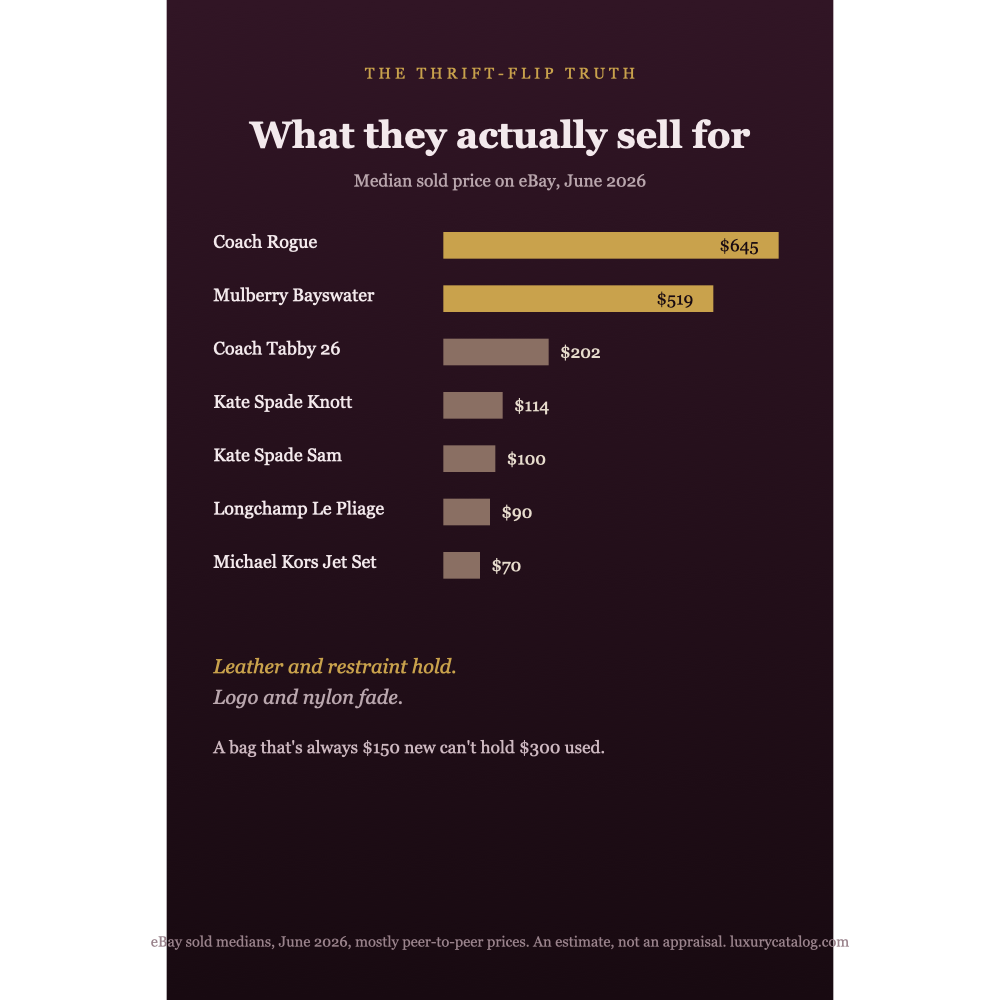
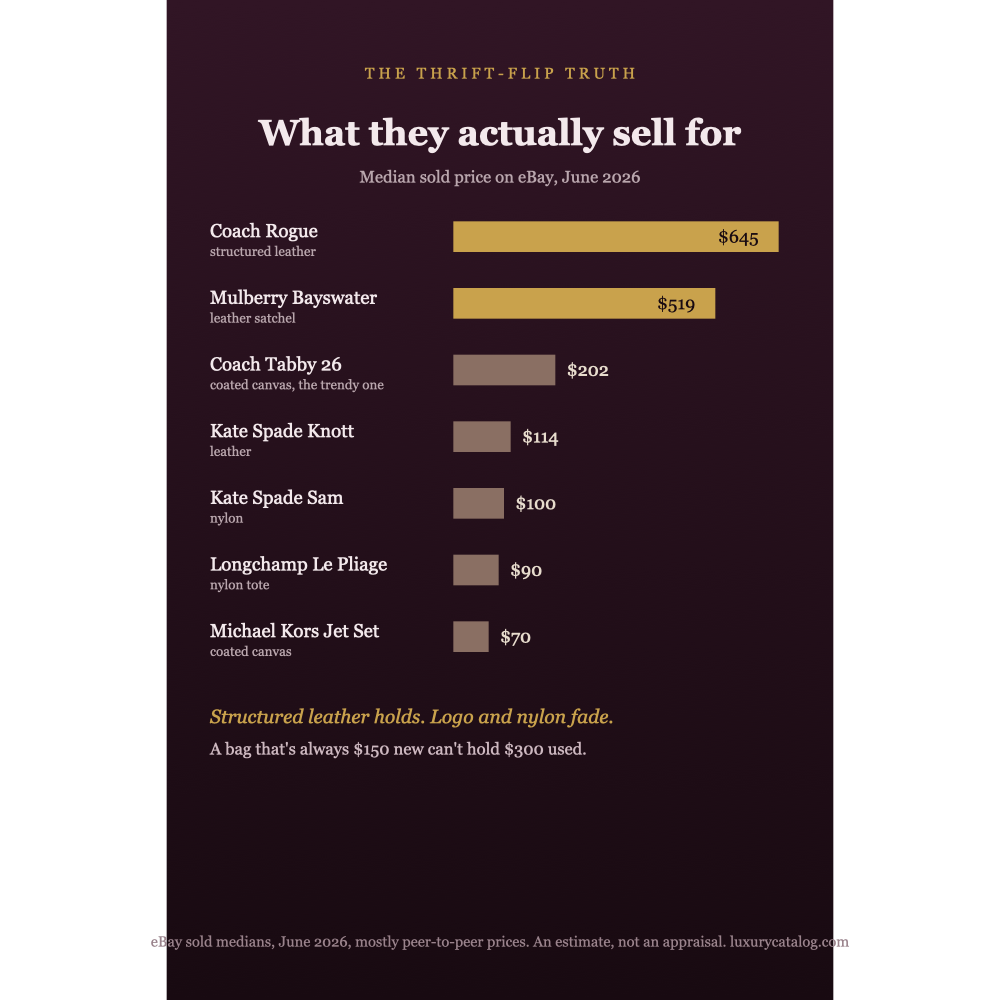
content(social): revise #4 (descriptor-anchored names, show-the-bag) + chart descriptors + lock recognition rule
Rule (voice-and-tone §7b): never assume model-name recognition; pair every
name with the bag (on screen / silhouette / 3-word descriptor); lead with the
viral names. Thrift chart now labels each bag's material; #4 script anchors
each name to a look and leads with the Tabby.

diff --git a/assets/social/2026-06-launch/accessible-bags-hold-value-post.md b/assets/social/2026-06-launch/accessible-bags-hold-value-post.md
@@ -1,37 +1,39 @@
 # Post — Which accessible bags actually hold value (thrift/flip)
 
-Status: DRAFTED 2026-06-30. Pillar: thrift wedge / honest money. Persona: Jordan.
+Status: DRAFTED 2026-06-30 (hook+POV + descriptor-anchored names). Pillar: thrift wedge / honest money. Persona: Jordan.
 Destination: https://www.luxurycatalog.com/articles/which-accessible-bags-hold-value
-Facts from the article (eBay sold medians, June 2026): Coach Rogue $645, Mulberry Bayswater $519, Coach Tabby 26 $202, Kate Spade Knott $114, Kate Spade Sam $100, Longchamp Le Pliage $90, Michael Kors Jet Set $69.99. Pattern: structured leather + restraint holds; logo/nylon + volume fades. Mostly peer-to-peer prices, not authenticated comps. Estimate, not an appraisal.
-Visual: horizontal sold-medians bar chart, 7 bags (jewel house style). [building]
+Visual: assets/social/2026-06-launch/accessible-bags-sold.svg (now with material descriptors per bag)
+Facts (eBay sold medians, June 2026): Coach Rogue $645, Mulberry Bayswater $519, Coach Tabby 26 $202, Kate Spade Knott $114, Kate Spade Sam $100, Longchamp Le Pliage $90, Michael Kors Jet Set $69.99. Mostly peer-to-peer, estimate not appraisal.
+NOTE (recognition rule): on video SHOW each bag as it's named; names are anchored to a look in copy. Lead with the Tabby (the one people know).
 
-## TikTok / Reel
-> Found a designer bag at the thrift store? Here's which ones are actually worth flipping. Real sold prices, not the hopeful listings.
->
-> At the top, structured leather. A Coach Rogue sells around $645. A Mulberry Bayswater around $519. At the bottom, the logo and nylon everyday bags: a Michael Kors Jet Set near $70, a Longchamp Le Pliage near $90, Kate Spade around $100.
->
-> The Coach Tabby, the current logo darling, sits in the middle around $200, well under the Rogue from the same brand.
->
-> The pattern: leather and restraint hold, logo and nylon don't. A bag that's always available new for $150 can't hold $300 used.
->
-> At the rack: grab structured leather on sight, the Mulberry, the Rogue. The nylon and logo totes, only if they're cheap or you'll carry them. And down here, condition is everything: a stain is the difference between a flip and a wash.
+## Hooks (rotate)
+- A: "Found a designer bag at the thrift store? Here's whether it's a $600 flip or a $70 dust collector."
+- B: "Most 'designer' thrift finds are basically worthless. Here are the few that actually flip."
 
-**Outro:** Full sold-price list, every bag, at the link. Follow for more where handbags meet data, I put it all on LuxuryCatalog.com so you can spend smart.
+## TikTok / Reel (open with A or B; SHOW each bag as you say it)
+> I pulled the real eBay sold prices for the bags people thrift most, the actual sold numbers, not the hopeful listings. The gap is brutal.
+>
+> Top of the list, structured leather. That heavy Coach satchel with the turn-lock, the Rogue, sells around $645. The classic structured Mulberry, the Bayswater, around $519. Grab those on sight.
+>
+> Bottom of the list, the everyday logo and nylon bags. The Michael Kors logo tote, about $70. The Longchamp nylon shopper, the Le Pliage, around $90. Kate Spade, around $100. And the trendy Coach everyone has right now, the Tabby, sits in the middle around $200, under the Rogue from the same brand.
+>
+> The rule: structured leather holds, logo and nylon fade. A bag that's always on sale new for $150 can't hold $300 used. And down here condition is everything, a stain is the difference between a flip and a wash.
+
+**Outro:** Full sold-price list, every bag, at the link. Follow for real bag data with the gatekeeping cut out, LuxuryCatalog.com.
 
 ## Instagram caption
 > The thrift-flip truth, in real sold prices.
 >
-> We pulled eBay's actual sold medians, not the hopeful asks. Structured leather holds: a Coach Rogue sells around $645, a Mulberry Bayswater around $519. The everyday logo and nylon bags sell for a fraction: a Michael Kors Jet Set near $70, a Longchamp Le Pliage near $90, Kate Spade around $100. The Coach Tabby, the logo darling, lands around $200, under the Rogue from the same house.
+> I pulled eBay's actual sold medians, not the hopeful asks. Structured leather holds: the heavy turn-lock Coach satchel, the Rogue, sells around $645; the classic Mulberry satchel, the Bayswater, around $519. The everyday logo and nylon bags sell for a fraction: a Michael Kors logo tote near $70, the Longchamp nylon shopper around $90, Kate Spade around $100. The trendy Coach everyone has, the Tabby, lands around $200, under the Rogue from the same house.
 >
 > Two things separate the holders from the rest: material (leather reads as an investment, nylon as a commuter bag) and volume (a bag that's always discounted new can't stay tight on resale).
 >
 > Grab leather on sight. Nylon and logo only if it's cheap. And condition is everything when sold prices are this compressed.
 >
-> eBay sold capture, June 2026, mostly peer-to-peer prices, not authenticated comps. An estimate, not an appraisal. From a collector and researcher at LuxuryCatalog.com.
+> eBay sold capture, June 2026, mostly peer-to-peer, an estimate not an appraisal. From a collector and researcher at LuxuryCatalog.com.
 
 `#thriftflip #coach #coachrogue #mulberry #resellertips #bagtok #thrifting #smartshopping`
 
 ## Pinterest pin
 - **Title:** Which thrift-store bags actually hold value
-- **Description:** Real eBay sold prices: a Coach Rogue sells around $645 and a Mulberry Bayswater around $519, while a Michael Kors Jet Set lands near $70, a Longchamp Le Pliage near $90, and Kate Spade around $100. The Coach Tabby sits around $200. Structured leather holds; logo and nylon fade. Grab leather on sight; condition is everything. Full list at the link. Estimate, not an appraisal.
-- **Visual:** the 7-bag sold-medians bar chart.
+- **Description:** Real eBay sold prices. Structured leather holds: the heavy Coach satchel (the Rogue) sells around $645, a classic Mulberry (the Bayswater) around $519. Logo and nylon fade: a Michael Kors tote near $70, a Longchamp nylon shopper around $90, Kate Spade around $100. The trendy Coach Tabby sits around $200. Grab leather on sight; condition is everything. Full list at the link. Estimate, not an appraisal.

diff --git a/docs/voice-and-tone.md b/docs/voice-and-tone.md
@@ -333,6 +333,11 @@ Same voice, dialed by register — not a separate brand for Gen Z vs. collectors
   barely decides it." Inject the owner's real opinion (hedged: "in my experience," "my take") and the
   de-gatekeeping energy. A data summary with no hook reads dry and dies. **Ship 2-3 rotating hook
   variants per post** so she can A/B test and repost without it going stale.
+- **Never assume the audience knows model names (locked 2026-06-30).** Casual buyers recognize bags
+  by look and brand, not model name (the Coach Tabby is a rare exception, it's TikTok-famous). So
+  pair every model name with the bag itself: shown on screen in video, a silhouette/photo in a pin,
+  or a 3-word descriptor in copy ("the structured leather satchel, the Mulberry Bayswater"). Lead
+  with the names people actually know.
 - **Sample sizes (n) live in charts and tables, never in body prose.** The chart carries the
   receipts; the text stays readable.
 - **Multi-point numbers go in scannable bullets,** not a packed sentence.